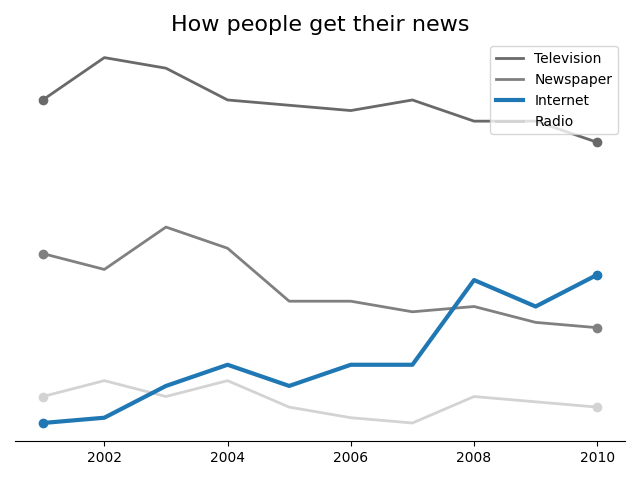
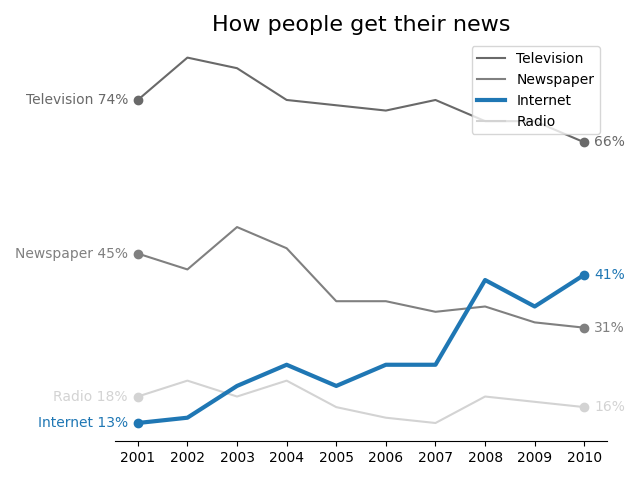
wtf? 2.0

diff --git a/homework/pregunta_01.py b/homework/pregunta_01.py
@@ -27,59 +27,76 @@ def pregunta_01():
 
     def create_plot(df, output_dir, filename):
         plt.figure()
-        colors = {
+        plt.title("How people get their news", fontsize=16)
+
+        # quitar bordes
+        plt.gca().spines["top"].set_visible(False)
+        plt.gca().spines["right"].set_visible(False)
+        plt.gca().spines["left"].set_visible(False)
+        plt.gca().axes.get_yaxis().set_visible(False)
+
+        colores = {
             "Television": "dimgray",
-            "Newspaper": "grey",
+            "Radio": "lightgray",
             "Internet": "tab:blue",
-            "Radio": "lightgrey",
+            "Newspaper": "grey",
         }
-        zorder = {
-            "Television": 1,
-            "Newspaper": 1,
-            "Internet": 2,
-            "Radio": 1,
-        }
-        linewidths = {
-            "Television": 2,
-            "Newspaper": 2,
-            "Internet": 3,
-            "Radio": 2,
-        }
+
+        posicion = {"Television": 1, "Radio": 1, "Internet": 2, "Newspaper": 1}
+
+        ancho = {"Television": 1.5, "Radio": 1.5, "Internet": 3, "Newspaper": 1.5}
+
         for col in df.columns:
+            # lineas
             plt.plot(
                 df[col],
+                color=colores[col],
                 label=col,
-                color=colors[col],
-                zorder=zorder[col],
-                linewidth=linewidths[col],
-            )
-        plt.title("How people get their news", fontsize=16)
-        plt.gca().spines["top"].set_visible(False)
-        plt.gca().spines["left"].set_visible(False)
-        plt.gca().spines["right"].set_visible(False)
-        plt.gca().axes.get_yaxis().set_visible(False)
-        for col in df.columns:
-            first_year = df.index[0]
-            plt.scatter(
-                x=first_year,
-                y=df[col][first_year],
-                color=colors[col],
-                zorder=zorder[col],
+                zorder=posicion[col],
+                linewidth=ancho[col],
             )
 
-            last_year = df.index[-1]
+            # puntos
+            primer_valor = df.index[0]
             plt.scatter(
-                x=last_year, y=df[col][last_year], color=colors[col], zorder=zorder[col]
+                x=primer_valor,
+                y=df[col][primer_valor],
+                color=colores[col],
             )
+            ultimo_valor = df.index[-1]
+            plt.scatter(
+                x=ultimo_valor,
+                y=df[col][ultimo_valor],
+                color=colores[col],
+            )
+
+            # etiquetas
+            plt.text(
+                x=primer_valor - 0.2,
+                y=df[col][primer_valor],
+                s=col + " " + str(df[col][primer_valor]) + "%",
+                color=colores[col],
+                ha="right",
+                va="center",
+            )
+            plt.text(
+                x=ultimo_valor + 0.2,
+                y=df[col][ultimo_valor],
+                s=str(df[col][ultimo_valor]) + "%",
+                color=colores[col],
+                ha="left",
+                va="center",
+            )
+        plt.xticks(ticks=df.index, labels=df.index, ha="center")
 
         plt.legend(loc="upper right")
-        plt.tight_layout()
+
+        # guardar
         if not os.path.exists(output_dir):
             os.makedirs(output_dir)
         plt.tight_layout()
         plt.savefig(os.path.join(output_dir, filename))
         plt.close()
-        plt.show
 
     df = read_data(r"files\input\news.csv")
     create_plot(df, r"files\plots", "news.png")
